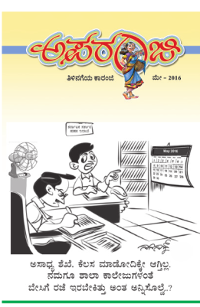
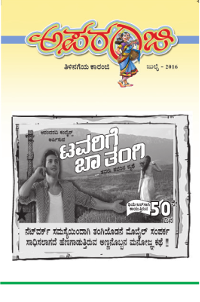
Commit No. 43 July issue updated

diff --git a/index.php b/index.php
@@ -84,7 +84,7 @@ session_start();
 			echo "		  </div>
 				</div>";
 				
-			echo "<div class=\"cover\"><a href=\"Volumes/".$currentyear."_".$currentmonth.".pdf#page=1\" target=\"_blank\"><img src=\"php/images/cover.png\" alt=\"".$month[$currentmonth-1]."\" title=\"".$month[$currentmonth-1]." ಸಂಚಿಕೆ\"/></a></div>";
+			echo "<div class=\"cover\"><a href=\"Volumes/".$currentyear."_".$currentmonth.".pdf#page=1\" target=\"_blank\"><img src=\"php/images/cover1.png\" alt=\"".$month[$currentmonth-1]."\" title=\"".$month[$currentmonth-1]." ಸಂಚಿಕೆ\"/></a></div>";
 		?>
 			
 		

diff --git a/php/connect_db.php b/php/connect_db.php
@@ -4,7 +4,7 @@
 	$pwd="mysql";
 	$db="apr";
 	$volume='33';
-	$issue='09';
+	$issue='10';
 	
 	$db_con=mysql_connect("$host","$usr","$pwd");
 	mysql_select_db("$db",$db_con);
